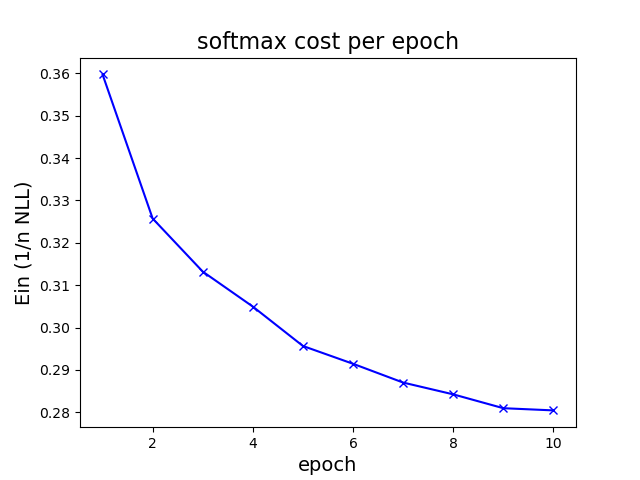
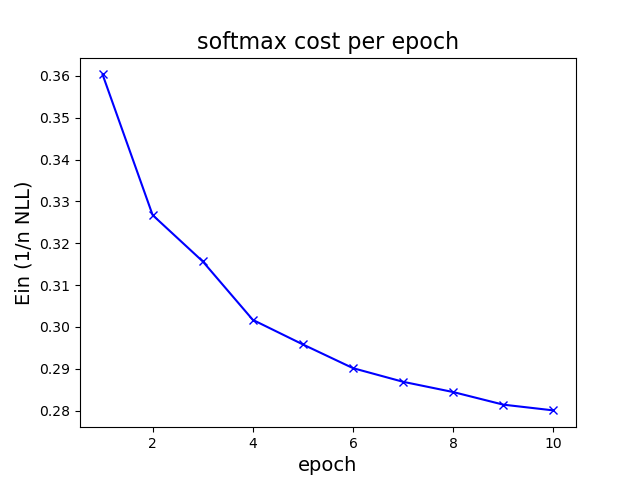
Daniel done

diff --git a/REPORT.md b/REPORT.md
@@ -1,9 +1,10 @@
-# Report
+# Handin 1
 
-**Name(s):**
-**Student ID(s):**
-
----
+| Name                 | Student ID |
+|----------------------|------------|
+| Daniel Naddaf        | 202106189  |
+| Behzad Haidari       | 202006894  |
+| Peter Ernst Lüdeking | 202307043  |
 
 ## PART I: Logistic Regression
 
@@ -11,78 +12,87 @@
 
 #### Summary and Results
 
-* **In-sample accuracy:** …
-* **Test accuracy:** …
+- **In-sample accuracy:** 0.9763
+- **Test accuracy:** 0.9623
 
-**Generated Plot:**
+**Generated Plot:**  
 ![Logistic Regression Plot](logistic_plot.png)
 
-*Comment (2 lines max):*
-…
+The plot demonstrates a clear decrease in the in-sample negative log likelihood cost over the training epochs, indicating effective model learning.
 
-*Notes (if anything did not work):*
-…
+All tests passed successfully.
 
 #### Actual Code
 
 ```python
 # cost_grad
-def cost_grad(...):
-    ...
+def cost_grad(self, X, y, w):
+    cost = 0
+    grad = np.zeros(w.shape)
+    cost = np.mean(np.log(1 + np.exp(-y * (X @ w))))
+    grad = -np.mean((y * logistic(-y * (X @ w)))[:, np.newaxis] * X, axis=0)
+    assert grad.shape == w.shape
+    return cost, grad
 
 # fit
-def fit(...):
-    ...
+def fit(self, X, y, w=None, lr=0.1, batch_size=16, epochs=10):
+    if w is None: w = np.zeros(X.shape[1])
+    history = []        
+    for _ in range(epochs):
+        perm = np.random.permutation(X.shape[0])
+        X_shuffled = X[perm]
+        y_shuffled = y[perm]
+        for i in range(0, X.shape[0], batch_size):
+            X_batch = X_shuffled[i:i+batch_size]
+            y_batch = y_shuffled[i:i+batch_size]
+            cost, grad = self.cost_grad(X_batch, y_batch, w)
+            w -= lr * grad
+        history.append(self.cost_grad(X, y, w)[0])
+    self.w = w
+    self.history = history
 ```
-
----
 
 ### Theory
 
 #### Q1. Running Time of Mini-Batch Gradient Descent
-To find the running time of our metod we will split it in to its constituant parts, find their run time, and finally put it all together.
-the method we are looking at here is the Fit method, which has the following variales:
-n: training sampls
-d: dimensions of the training data
-E (epochs): the amount of epochs
-B: batch size
 
-the fit method can be broken down in to these parts:
-create d-array (it takes d time)
-the epoch loop (which runs E times)
-    permutation (runs n times)
-    shuffle x (takes nd time)
-    shuffle y (takes n time)
-    batch loop (runs n/d times)
-        x batch (takes Bd time)
-        y batch (takes B time)
-        cost-grad (takes nd+n+d time)
-        wehight update (takes constant time)
-    append result (takes same time as cost grad)
+To analyze the running time of the `fit` method, we break it down into its components:
 
-putting it all together we get (d+E(n+nd+n+n/d*(Bd+B+nd+n+d+1)+nd+n+d)) which will need to e reduced
-(d+E(3n+2nd+d+n/d*(Bd+B+nd+n+d)))
-(d+E(n+nd+d+(n*(Bd+B+nd+n+d))/d))
-(d+E(n+nd+d+(n*(Bd+B+d))/d))
-(d+E(n+nd+d+nd+n+(nd/B)))
-(d+E(d+nd+n+(nd/B)))
-(d+E(nd+(nd/B)))
-(d+E(nd+nd)) worst case B=1 ergo (nd/B) = (nd/1) = nd
-(d+E(nd))
-(d+End)
-(End)
-the O time of our method is O(End)
-…
+- **n:** Number of training samples  
+- **d:** Number of features  
+- **E:** Number of epochs  
+- **B:** Batch size
+
+**Breakdown:**
+
+- Create d-array: O(d)
+- Epoch loop: O(E)
+    - Permutation: O(n)
+    - Shuffle X: O(nd)
+    - Shuffle y: O(n)
+    - Batch loop: O(n/B)
+        - X batch: O(Bd)
+        - y batch: O(B)
+        - cost_grad: O(nd + n + d)
+        - Weight update: O(1)
+    - Append result: O(cost_grad)
+
+**Total running time:**
+
+After simplification, the overall time complexity is:
+
+```
+O(E * n * d)
+```
 
 #### Q2. Sanity Check (Cats vs. Dogs)
 
-…
+...
 
 #### Q3. Linearly Separable Data
 
-…
+...
 
----
 
 ## PART II: Softmax Regression
 
@@ -90,59 +100,72 @@ the O time of our method is O(End)
 
 #### Summary and Results
 
-* **Wine data set – In-sample accuracy:** …
+- **Wine data set – In-sample accuracy:** 1.0
+- **Wine data set – Test accuracy:** 0.978
+- **MNIST data set – In-sample accuracy:** 0.9218
+- **MNIST data set – Test accuracy:** 0.9216
 
-* **Wine data set – Test accuracy:** …
-
-* **MNIST data set – In-sample accuracy:** …
-
-* **MNIST data set – Test accuracy:** …
-
-**Generated Plots:**
-![Softmax Wine Plot](softmax_wine.png)
-![Softmax Digits Plot](softmax_digits.png)
+**Generated Plots:**  
+![Softmax Wine Plot](softmax_wine.png)  
+![Softmax Digits Plot](softmax_digits.png)  
 ![Softmax Digits Visualization](softmax_visualization.png)
 
-*Comment (2 lines max):*
-…
+The cost plots for both wine and MNIST datasets show a rapid decrease in the negative log likelihood during early epochs, indicating successful learning. The MNIST weight visualization clearly shows distinct patterns resembling each digit, demonstrating the classifier's ability to differentiate them.
 
 #### Actual Code
 
 ```python
 # cost_grad
-def cost_grad(...):
-    ...
+def cost_grad(self, X, y, W):
+    cost = np.nan
+    grad = np.zeros(W.shape)*np.nan
+    Yk = one_in_k_encoding(y, self.num_classes)
+    softmax_probs = softmax(X @ W)
+    correct_class_probs = softmax_probs[np.arange(X.shape[0]), y]
+    cost = -np.mean(np.log(correct_class_probs))
+    grad = X.T @ (softmax_probs - Yk) / X.shape[0]
+    return cost, grad
 
 # fit
-def fit(...):
-    ...
+def fit(self, X, Y, W=None, lr=0.01, epochs=10, batch_size=16):
+    if W is None: W = np.zeros((X.shape, self.num_classes))
+    history = []
+    for _ in range(epochs):
+        perm = np.random.permutation(X.shape[0])
+        X_shuffled = X[perm]
+        y_shuffled = Y[perm]
+        for i in range(0, X.shape[0], batch_size):
+            X_batch = X_shuffled[i:i+batch_size]
+            y_batch = y_shuffled[i:i+batch_size]
+            cost, grad = self.cost_grad(X_batch, y_batch, W)
+            W -= lr * grad
+        history.append(self.cost_grad(X, Y, W)[0])
+    self.W = W
+    self.history = history
 ```
-
----
 
 ### Theory
 
 #### Q1. Running Time of Softmax Implementation
-here we'll be doing the same thig as in question 1, just on the cost grad method using soft max
-n: training sampls
-d: dimensions of the training data
-k: classes
 
-one-in-k-notation (takes nk time)
-soft_max (takes nd-time)
-np.arrange (takes n time)
-np.mean (takes n time)
-grad calculations (takes (dnk+nk+dk) -> dnk time)
+Let:
 
-putting it all together we get O(nk+nd+n+n+dnk) which we will then reduce
-nk+nd+n+dnk
-dnk (since nk, nd and n are all part of dnk we can elminate them)
-the time for cost grad is O(dnk)
-…
+- **n:** Number of training samples  
+- **d:** Number of features  
+- **k:** Number of classes
 
----
+**Breakdown:**
 
-# Appendix (Optional)
+- One-in-k encoding: O(nk)
+- Softmax: O(nd)
+- np.arange: O(n)
+- np.mean: O(n)
+- Gradient calculation: O(dnk)
 
-* Extra plots
-* Additional tests
+**Total running time:**
+
+After simplification, the time complexity for `cost_grad` is:
+
+```
+O(dnk)
+```
